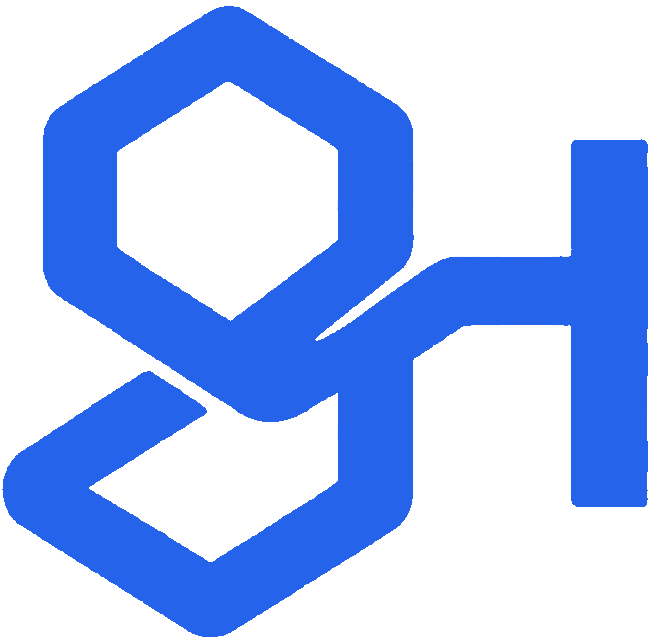
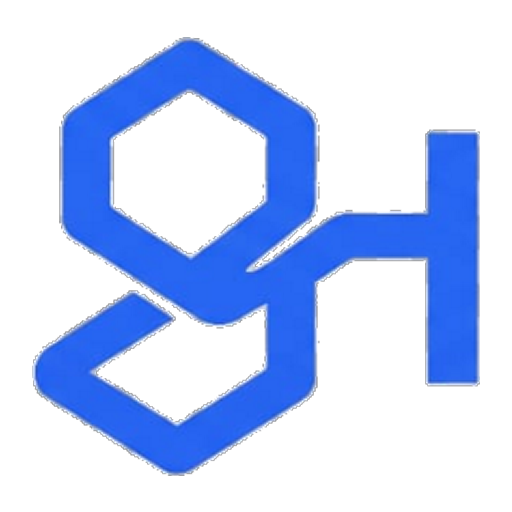
feat: add client index.html and static assets

Changed region(s): [[0.0, 0.0, 1.0, 1.0]]

diff --git a/client/index.html b/client/index.html
@@ -2,6 +2,7 @@
 <html lang="en">
   <head>
     <meta charset="UTF-8" />
+    <link rel="icon" type="image/svg+xml" href="/favicon.svg" />
     <link rel="icon" type="image/png" href="/gethack-icon.png" />
     <link rel="apple-touch-icon" href="/gethack-icon.png" />
     <meta name="viewport" content="width=device-width, initial-scale=1.0" />
